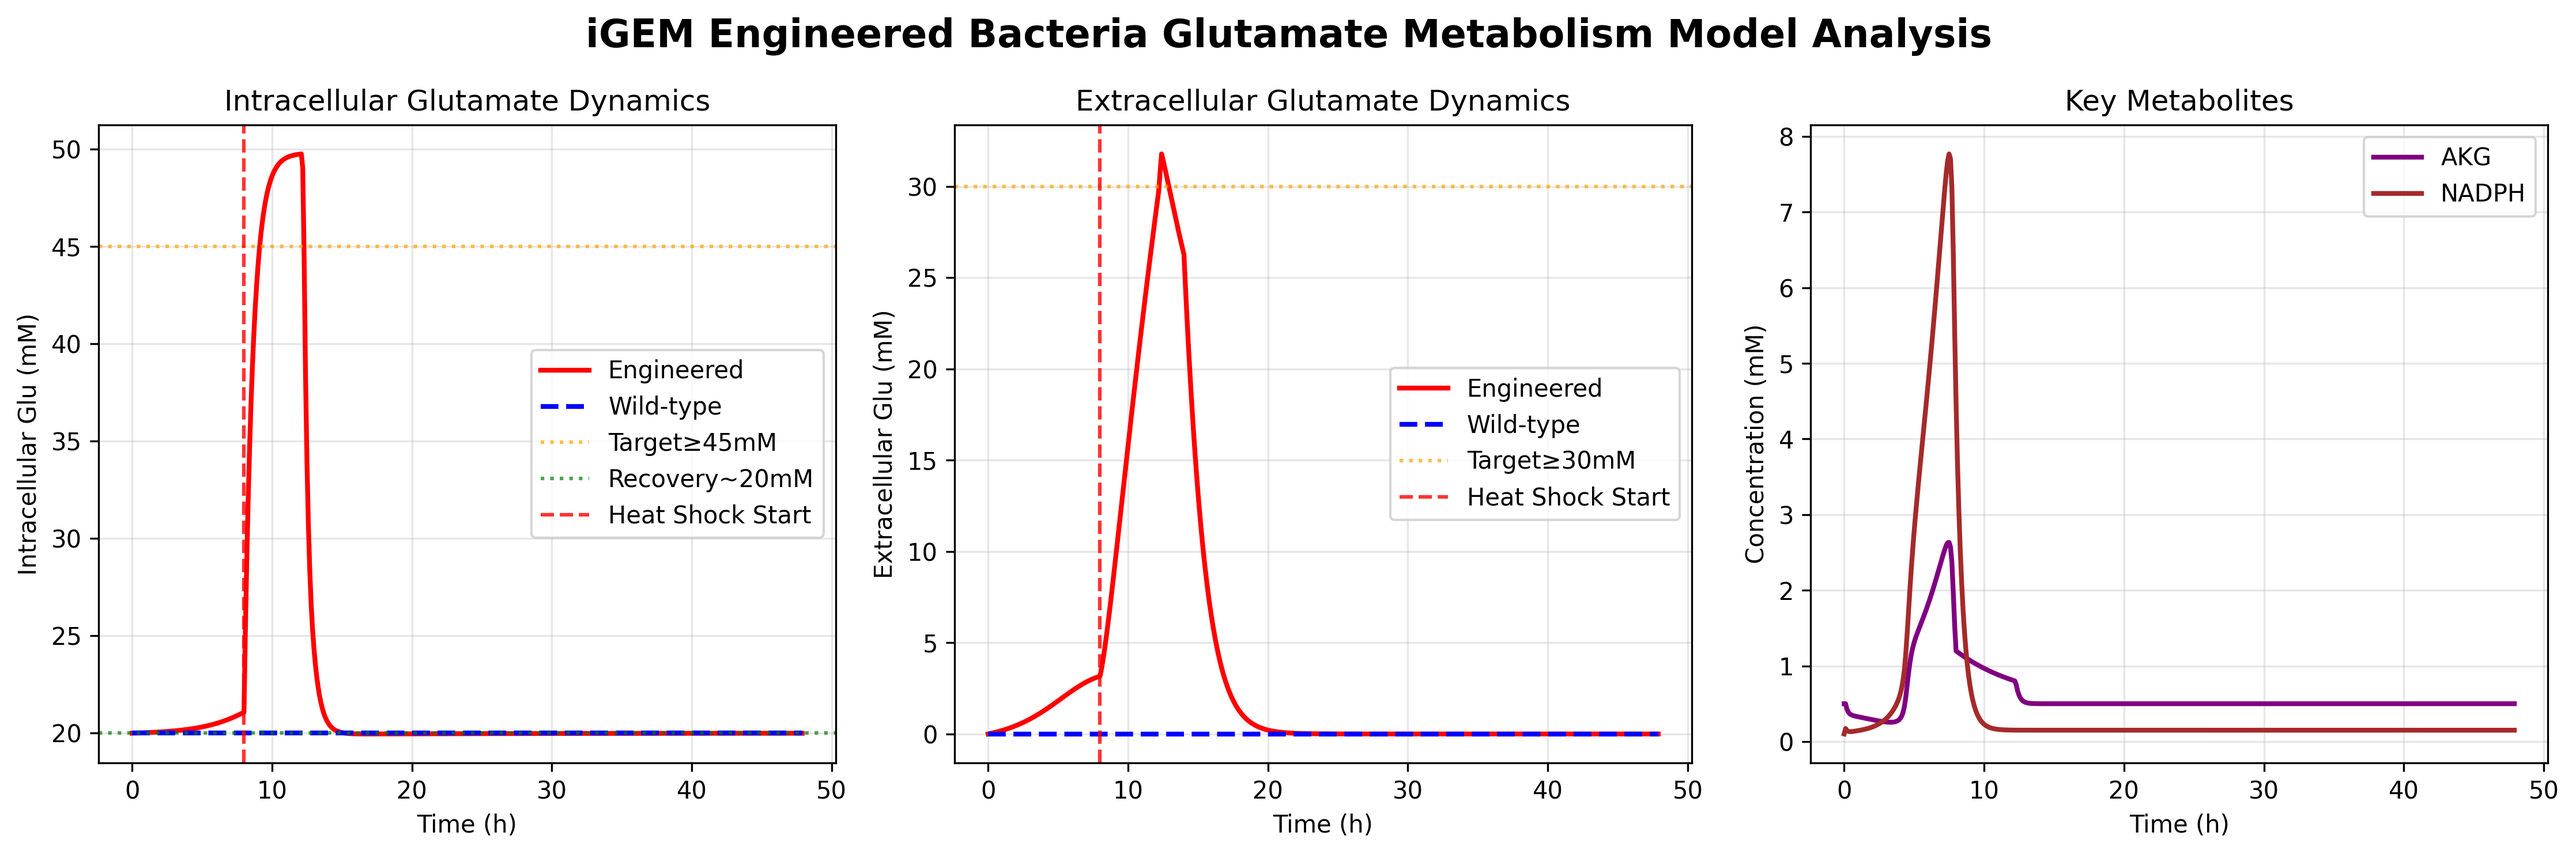
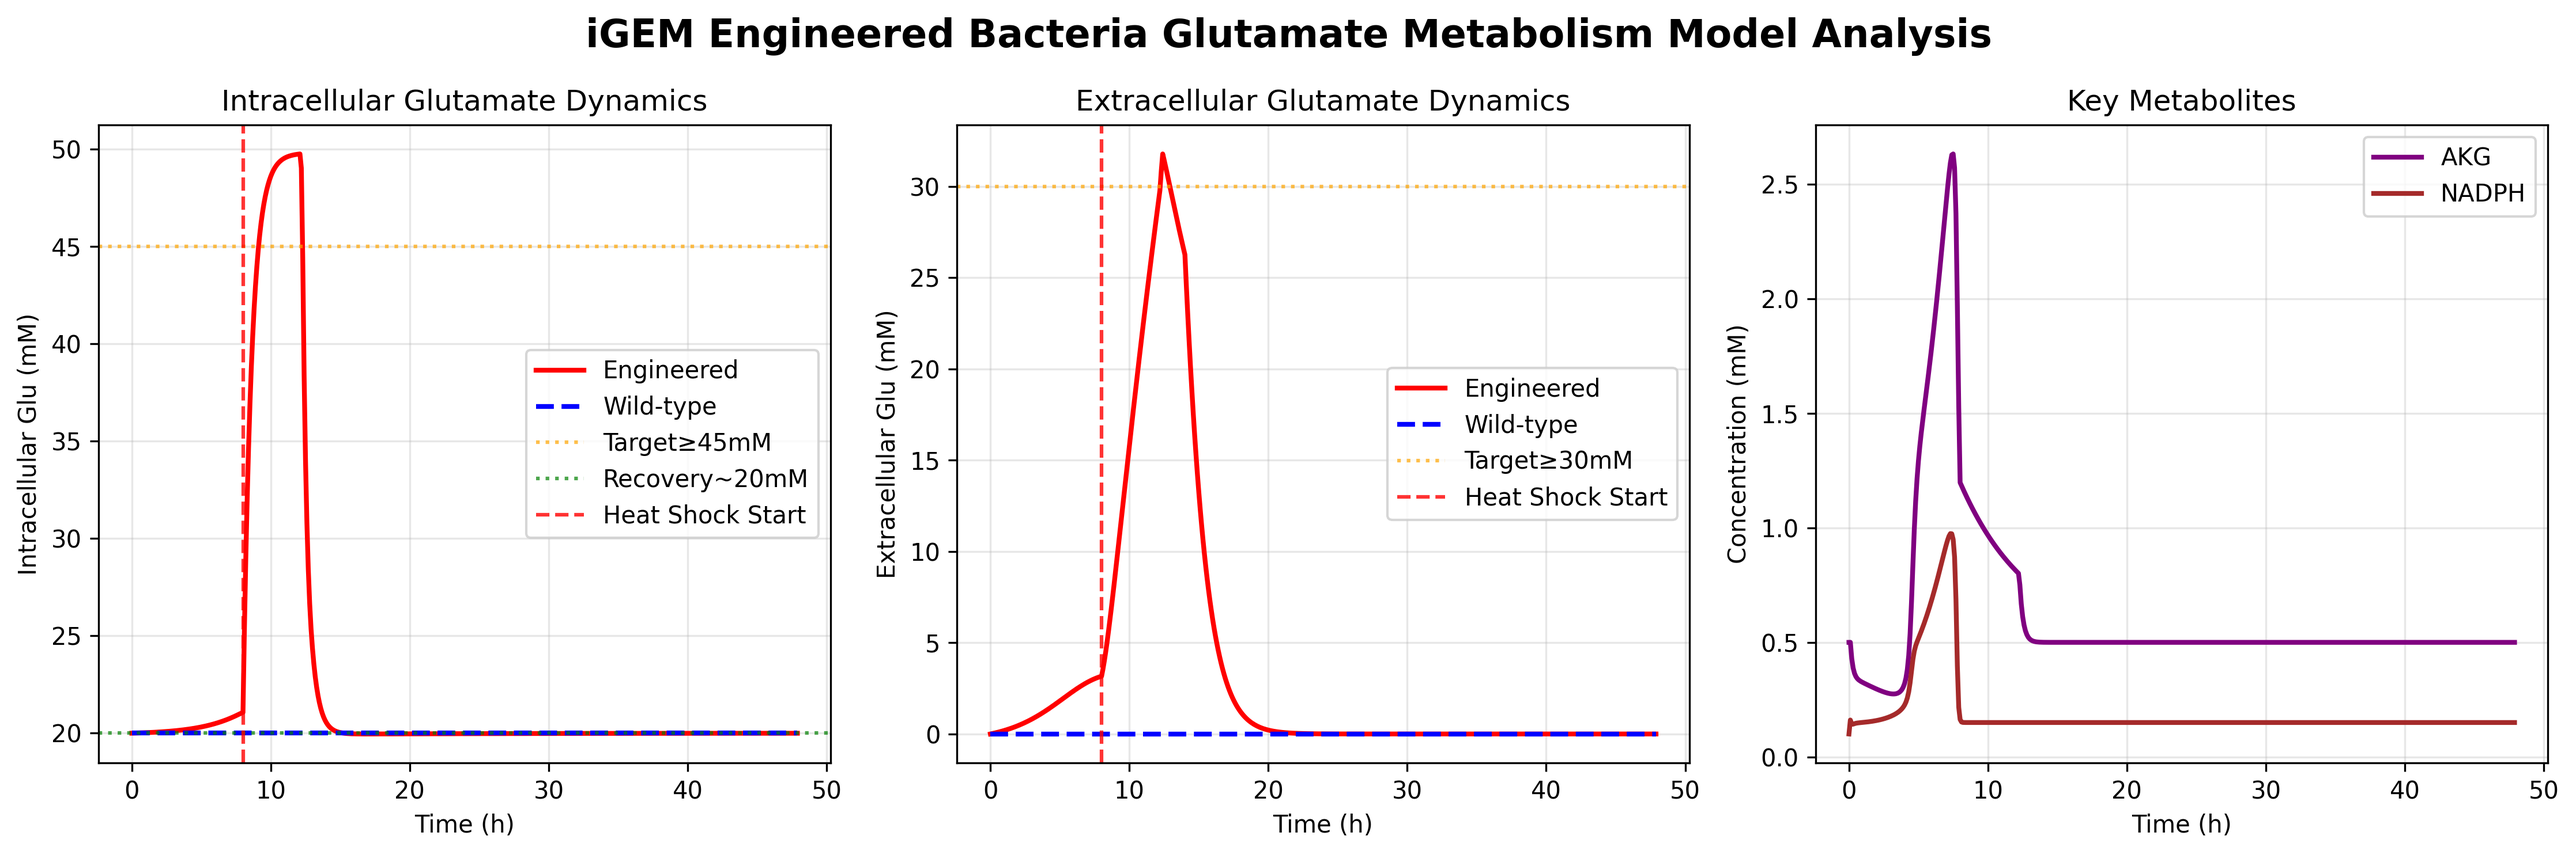
feat: Update NADPH lambda parameter to improve model accuracy; replace simulation results image

diff --git a/models/glu_metabolism_en.py b/models/glu_metabolism_en.py
@@ -358,7 +358,7 @@ if __name__ == '__main__':
         'k_sec_base': 0.8,
         'k_maintenance': 0.08,
         'k_PPP': 0.4,
-        'lambda_NADPH': 2.0,
+        'lambda_NADPH': 20.0,
         'NADPH_set': 0.15,
     }
     
